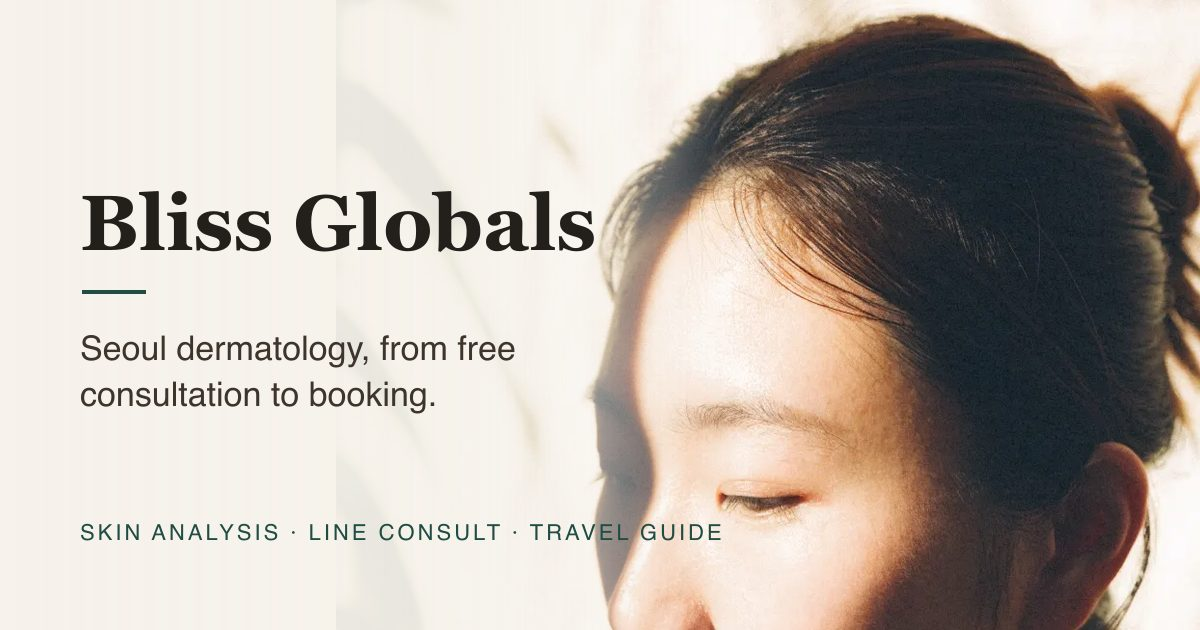
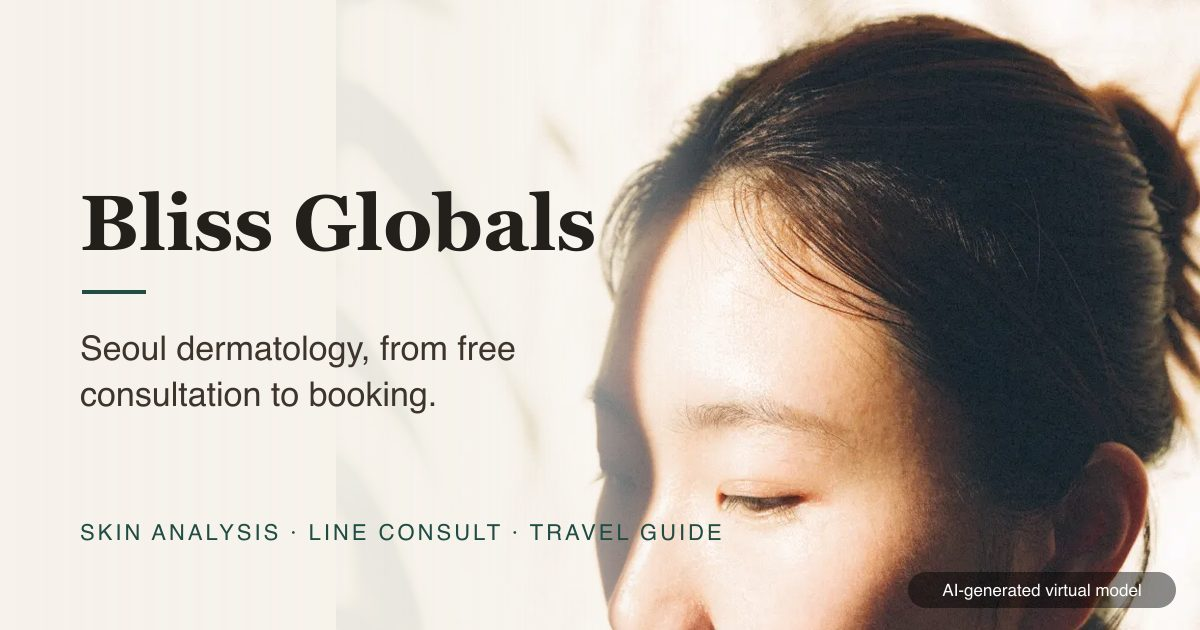
Label AI-generated imagery
- "AI 생성 가상인물" tag on the AI person photo (home hero, analysis
  intro) and on the share image, shown while the person is visible
- Footer notice: all photos are AI-generated, not real people, clinics or
  treatment results; skin scores are AI reference information

Changed region(s): [[0.74, 0.9048, 0.9867, 0.9651]]

diff --git a/src/content/site/ko.ts b/src/content/site/ko.ts
@@ -16,6 +16,7 @@ const ko: SiteContent = {
     comingSoon: "준비 중",
     seeAll: "전체 보기",
     adLabel: "광고",
+    aiPersonLabel: "AI 생성 가상인물",
     languageLabel: "언어",
     nav: { treatments: "시술", guide: "가이드" },
     consultMessage: {
@@ -75,6 +76,8 @@ const ko: SiteContent = {
     registration: "외국인환자 유치업 등록번호 A-2025-01-01-06361",
     disclaimer:
       "본 사이트의 정보는 일반적인 안내이며 의학적 진단이나 처방이 아닙니다. 시술 여부는 반드시 의료진과 상담 후 결정하세요.",
+    aiNotice:
+      "이 사이트의 사진은 AI로 생성한 이미지이며, 실제 인물·의원·시술 결과가 아닙니다. 피부 분석 점수는 AI가 계산한 참고용 정보입니다.",
     privacy: "개인정보처리방침",
   },
 

diff --git a/src/content/site/index.ts b/src/content/site/index.ts
@@ -62,6 +62,7 @@ export interface SiteContent {
     comingSoon: string;
     seeAll: string;
     adLabel: string;
+    aiPersonLabel: string;
     languageLabel: string;
     nav: { treatments: string; guide: string };
     consultMessage: { title: string; interest: string; topic: string; concern: string };
@@ -101,7 +102,13 @@ export interface SiteContent {
     related: string;
   };
   guidePage: { title: string; intro: string; lastChecked: string; sponsoredNote: string };
-  footer: { company: string; registration: string; disclaimer: string; privacy: string };
+  footer: {
+    company: string;
+    registration: string;
+    disclaimer: string;
+    aiNotice: string;
+    privacy: string;
+  };
   concerns: Concern[];
   treatments: Treatment[];
   steps: { title: string; body: string }[];

diff --git a/src/app/[locale]/analysis/page.tsx b/src/app/[locale]/analysis/page.tsx
@@ -44,6 +44,9 @@ export default async function AnalysisIntro({
             <span key={pos} className={`absolute size-7 rounded-[4px] border-white/80 ${pos}`} />
           )
         )}
+        <span className="absolute top-6 left-1/2 -translate-x-1/2 rounded-full bg-black/45 px-2.5 py-1 text-[11px] font-medium text-white backdrop-blur">
+          {ui.aiPersonLabel}
+        </span>
         <p className="absolute bottom-6 left-1/2 -translate-x-1/2 rounded-full bg-black/35 px-3 py-1 text-xs font-medium tracking-wide text-white backdrop-blur">
           {dict.home.badge}
         </p>

diff --git a/src/app/[locale]/page.tsx b/src/app/[locale]/page.tsx
@@ -34,6 +34,9 @@ export default async function Home({ params }: { params: Promise<{ locale: strin
             />
           </div>
           <div className="absolute inset-x-0 top-0 -bottom-px bg-gradient-to-b from-transparent via-transparent via-55% to-background" />
+          <span className="absolute top-3 right-3 rounded-full bg-black/45 px-2.5 py-1 text-[11px] font-medium text-white backdrop-blur">
+            {c.ui.aiPersonLabel}
+          </span>
         </div>
 
         <div className="relative -mt-36 flex flex-col gap-5 px-5">

diff --git a/src/components/SiteShell.tsx b/src/components/SiteShell.tsx
@@ -48,6 +48,7 @@ export default function SiteShell({
           <p>{footer.registration}</p>
           <p>blissglobalscs@gmail.com</p>
           <p className="max-w-[60ch]">{footer.disclaimer}</p>
+          <p className="max-w-[60ch]">{footer.aiNotice}</p>
           <Link href={`/${locale}/privacy`} className="w-fit underline underline-offset-2">
             {footer.privacy}
           </Link>
